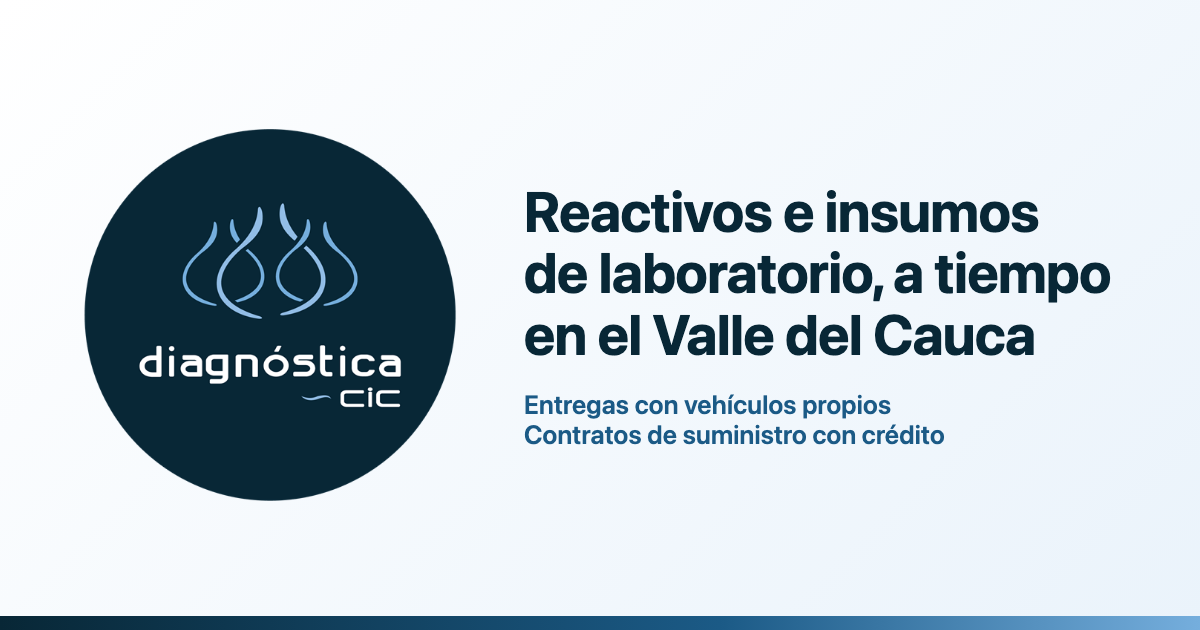
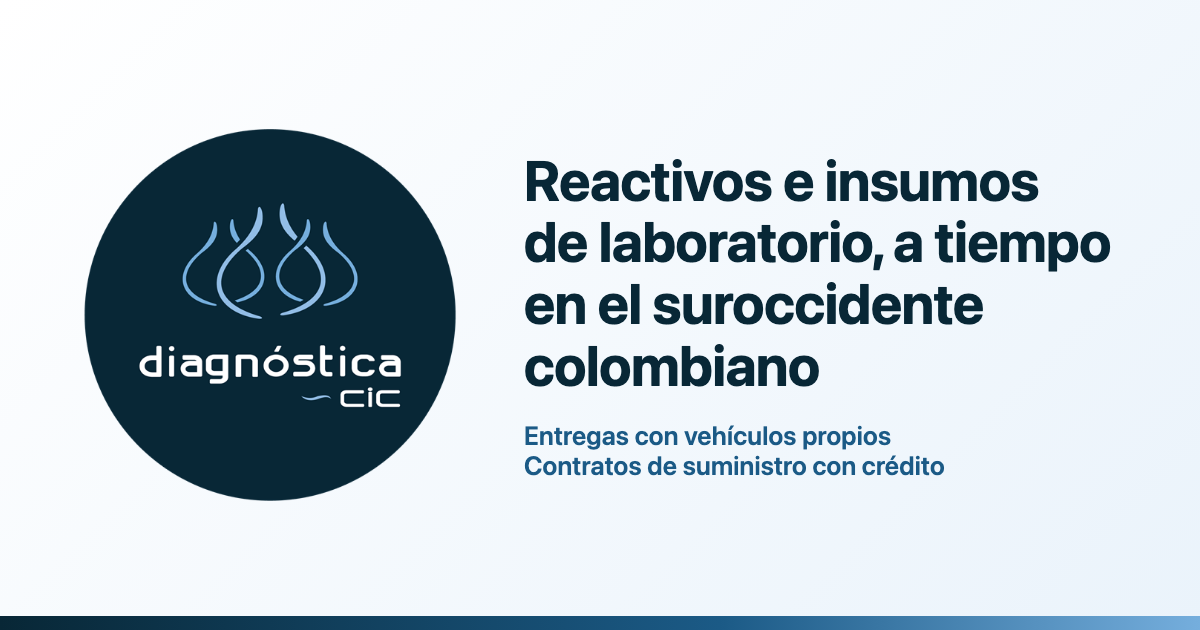
Apply content questionnaire answers
Copy now matches what the company confirmed:
- Hero: independent distributor supplying CIC lab and Sane; suroccidente
  colombiano; proof row since 2021 / 40+ clients / 17 route municipalities
- Remove brand strip, stock reservado, 60-day credit (now 30 a 45 días),
  contracts for labs/drugstores, vidriería card, Buenaventura
- Contracts only for hospitals/IPS: stable price, agreed delivery dates,
  credit line, no minimum consumption; quote in 2 to 48 h
- Coverage: whole Valle; fixed routes in 17 CIC-site municipalities;
  freight outside routes, free over $600.000
- Catalog opens the WhatsApp Business catalog (tracked as catalog_view)
- Saturday hours, more client types, contract document hint, FAQ updates
  (no minimum order, tenders, electronic invoicing)
- Tracking labels use visible text only

Changed region(s): [[0.4317, 0.2413, 0.925, 0.754]]

diff --git a/src/data/site.ts b/src/data/site.ts
@@ -20,57 +20,51 @@ export const company = {
   get address() {
     return `${this.street}, ${this.city}, ${this.region}`;
   },
-  hours: ['Lunes a viernes: 7:00 a.m. – 12:00 m. y 2:00 p.m. – 5:00 p.m.'],
+  hours: ['Lunes a viernes: 7:00 a.m. – 12:00 m. y 2:00 p.m. – 5:00 p.m.', 'Sábados: 7:30 a.m. – 11:00 a.m.'],
   // Shown in the proof row, the contact section and the form's success message.
   responseTime: '24 horas',
 };
 
 /**
- * Delivery route: which weekday our own vehicles reach each municipality.
+ * Fixed delivery routes: the municipalities with a CIC laboratorios site, by weekday.
+ * A day without fixed towns shows its `note` instead.
  * The list of municipalities and their count are derived from this everywhere on the page.
  */
-export const routeDays = [
-  { day: 'Lunes', towns: ['Cali', 'Jamundí', 'Yumbo'] },
+export const routeDays: { day: string; towns?: string[]; note?: string }[] = [
+  { day: 'Lunes', towns: ['Cali', 'Yumbo', 'Vijes', 'Dagua', 'La Cumbre'] },
   { day: 'Martes', towns: ['Palmira', 'Candelaria', 'Pradera', 'Florida'] },
   { day: 'Miércoles', towns: ['Buga', 'Guacarí', 'El Cerrito', 'Ginebra'] },
   { day: 'Jueves', towns: ['Tuluá', 'Zarzal', 'Roldanillo', 'Cartago'] },
-  { day: 'Viernes', towns: ['Buenaventura'] },
+  { day: 'Viernes', note: 'Envíos a municipios cercanos' },
 ];
 
-export const municipalities = routeDays.flatMap((d) => d.towns);
+export const municipalities = routeDays.flatMap((d) => d.towns ?? []);
+
+/** Orders above this value ship without freight charge (COP). */
+export const freeFreightFrom = '$600.000';
 
 /** Prefilled WhatsApp messages, one per button intent. */
 export const whatsappMessages = {
   general: 'Hola, CIC Diagnóstica. Quisiera más información sobre sus productos.',
   quote: 'Hola, CIC Diagnóstica. Quisiera solicitar una cotización de insumos de laboratorio.',
   urgent: 'Hola, CIC Diagnóstica. Tengo un pedido urgente: nos estamos quedando sin insumos.',
-  catalog: 'Hola, CIC Diagnóstica. ¿Me pueden enviar el catálogo con precios, por favor?',
+  catalog: 'Hola, CIC Diagnóstica. Quisiera conocer los precios de los productos de su catálogo.',
   contract: 'Hola, CIC Diagnóstica. Me interesa un contrato de suministro para mi institución.',
   outsideRoute: 'Hola, CIC Diagnóstica. Quisiera saber si pueden hacer entregas en mi municipio.',
   hospital: 'Hola, CIC Diagnóstica. Escribo de un hospital / IPS y me interesa un convenio de suministro.',
   lab: 'Hola, CIC Diagnóstica. Escribo de un laboratorio clínico y quisiera una cotización de reactivos e insumos.',
   drugstore: 'Hola, CIC Diagnóstica. Escribo de una droguería y quisiera conocer sus productos y condiciones.',
-  independent: 'Hola, CIC Diagnóstica. Quisiera cotizar algunos insumos para mi consultorio.',
+  independent: 'Hola, CIC Diagnóstica. Quisiera cotizar algunos insumos para mi consultorio o establecimiento.',
 } as const;
 
 export type WhatsAppIntent = keyof typeof whatsappMessages;
 
-/** Proof row under the hero. Replace the bracketed values with confirmed figures. */
+/** Proof row under the hero. Only confirmed figures. */
 export const stats = [
-  { value: '[00]', label: 'años en el mercado' },
-  { value: '[000]', label: 'clientes activos' },
-  { value: String(municipalities.length), label: 'municipios con entrega propia' },
+  { value: 'Desde 2021', label: 'en el mercado' },
+  { value: '40+', label: 'clientes activos' },
+  { value: String(municipalities.length), label: 'municipios con ruta fija' },
   { value: `< ${company.responseTime}`, label: 'tiempo de respuesta' },
-];
-
-/** Brands we distribute. Set `logo` to a file in /public (e.g. '/brands/marca.svg') to show the image. */
-export const brands: { name: string; logo?: string }[] = [
-  { name: '[Marca 1]' },
-  { name: '[Marca 2]' },
-  { name: '[Marca 3]' },
-  { name: '[Marca 4]' },
-  { name: '[Marca 5]' },
-  { name: '[Marca 6]' },
 ];
 
 export const clientPlans: {
@@ -84,9 +78,9 @@ export const clientPlans: {
     icon: 'hospital',
     title: 'Hospitales e IPS',
     benefits: [
-      'Convenios y contratos de suministro',
+      'Contratos de suministro u órdenes de compra',
       'Facturación centralizada',
-      'Precio fijo y pago a 30 o 60 días',
+      'Cupo de crédito con pago a 30 a 45 días',
       'Entregas programadas con vehículos propios',
     ],
     cta: 'Solicitar convenio',
@@ -97,9 +91,9 @@ export const clientPlans: {
     title: 'Laboratorios clínicos',
     benefits: [
       'Reactivos, toma de muestras y consumibles en un solo proveedor',
-      'Stock reservado para su consumo mensual',
-      'Entregas semanales o quincenales',
-      'Respaldo de un grupo con laboratorio clínico propio',
+      'Despachos todos los días en nuestras rutas',
+      'Sin pedido mínimo',
+      'Abastecemos al laboratorio clínico CIC: conocemos su operación',
     ],
     cta: 'Cotizar para mi laboratorio',
     whatsapp: 'lab',
@@ -109,7 +103,7 @@ export const clientPlans: {
     title: 'Droguerías',
     benefits: [
       'Pruebas rápidas y elementos de bioseguridad',
-      'Contrato de suministro con precio fijo',
+      'Sin pedido mínimo',
       'Entrega en su municipio según el calendario de ruta',
     ],
     cta: 'Cotizar para mi droguería',
@@ -117,11 +111,12 @@ export const clientPlans: {
   },
   {
     icon: 'user',
-    title: 'Consultorios e independientes',
+    title: 'Consultorios y otros establecimientos',
     benefits: [
-      'Pedidos sin necesidad de contrato',
+      'Veterinarias, fisioterapia, odontología, clínicas ortopédicas y más',
+      'Sin pedido mínimo ni contrato',
+      'La misma línea que usan hospitales y laboratorios',
       'Cotización directa por WhatsApp',
-      'Los mismos productos que usan hospitales y laboratorios',
     ],
     cta: 'Cotizar por WhatsApp',
     whatsapp: 'independent',
@@ -138,7 +133,7 @@ export const productCategories = [
   {
     icon: 'droplet',
     title: 'Toma de muestras',
-    items: ['Tubos al vacío', 'Agujas y holders', 'Torniquetes', 'Recolectores de orina y coprológico'],
+    items: ['Tubos al vacío', 'Agujas, jeringas y holders', 'Torniquetes', 'Recolectores de orina y coprológico'],
   },
   {
     icon: 'test',
@@ -151,11 +146,6 @@ export const productCategories = [
     items: ['Puntas de micropipeta', 'Láminas y laminillas', 'Algodón y gasas', 'Alcohol y antisépticos'],
   },
   {
-    icon: 'beaker',
-    title: 'Vidriería y plásticos',
-    items: ['Tubos de ensayo', 'Pipetas', 'Gradillas', 'Frascos y cajas de Petri'],
-  },
-  {
     icon: 'shield',
     title: 'Bioseguridad',
     items: ['Guantes de nitrilo y látex', 'Tapabocas y respiradores', 'Batas desechables', 'Guardianes'],
@@ -163,18 +153,33 @@ export const productCategories = [
 ];
 
 export const contractBenefits = [
-  { icon: 'lock', title: 'Precio fijo', text: 'El precio acordado se mantiene durante toda la vigencia del contrato.' },
-  { icon: 'calendar', title: 'Entregas programadas', text: 'Despachos semanales o quincenales según su consumo.' },
-  { icon: 'card', title: 'Pago a 30 o 60 días', text: 'Crédito para instituciones con contrato de suministro.' },
-  { icon: 'box', title: 'Stock reservado', text: 'Apartamos su inventario para que no se quede sin insumos.' },
+  {
+    icon: 'lock',
+    title: 'Precio estable',
+    text: 'Por lo general mantenemos el precio acordado; solo algunos productos importados pueden variar con el dólar.',
+  },
+  {
+    icon: 'calendar',
+    title: 'Entregas programadas',
+    text: 'Acordamos las fechas con usted y despachamos en las rutas de la semana; para volúmenes grandes, despacho dedicado.',
+  },
+  { icon: 'card', title: 'Pago a 30 a 45 días', text: 'Cupo de crédito acordado con gerencia.' },
+  {
+    icon: 'check',
+    title: 'Sin consumo mínimo',
+    text: 'Al completar el cupo del contrato, renovamos con un otrosí o un contrato nuevo.',
+  },
 ];
 
 export const contractSteps = [
-  { title: 'Reciba una propuesta', text: 'Le enviamos precios fijos, frecuencia de entrega y plazo de pago.' },
-  { title: 'Lo visita un asesor', text: 'Nuestro asesor comercial revisa la propuesta con usted en su sede.' },
+  { title: 'Solicite una cotización', text: 'Le respondemos en 2 a 48 horas con precios y condiciones.' },
+  {
+    title: 'Negociamos con usted',
+    text: 'Por lo general de forma digital; si lo prefiere, nuestro asesor comercial lo visita en su sede.',
+  },
 ];
 
-/** Documents purchasing departments can request. */
+/** Documents purchasing departments can request. INVIMA records and data sheets come from each manufacturer. */
 export const supplierDocuments = [
   'RUT',
   'Certificado de Cámara de Comercio',
@@ -192,27 +197,31 @@ export const testimonials: { quote: string; name: string; role?: string; org?: s
 export const faqs = [
   {
     q: '¿Puedo comprar en línea?',
-    a: 'Todavía no tenemos tienda en línea. Escríbanos por WhatsApp o diligencie el formulario y le enviamos el catálogo con precios y una cotización.',
+    a: 'Todavía no tenemos tienda en línea. Puede ver nuestro catálogo en WhatsApp y pedirnos una cotización por ese medio o con el formulario.',
   },
   {
     q: '¿Hay un pedido mínimo?',
-    a: '[Definir pedido mínimo]. También atendemos pedidos pequeños de consultorios e independientes.',
+    a: `No hay pedido mínimo. El flete depende de la distancia y del valor del pedido; en compras superiores a ${freeFreightFrom} no cobramos flete.`,
   },
   {
     q: '¿Ofrecen crédito?',
-    a: 'Sí. Los clientes con contrato de suministro pueden pagar a 30 o 60 días. [Condiciones del crédito para compras sin contrato].',
+    a: 'Los hospitales e IPS con contrato manejan un cupo de crédito con pago a 30 a 45 días. Otros clientes pueden acceder a crédito si cumplen los requisitos de la empresa.',
   },
   {
     q: '¿Cuánto tarda una entrega?',
-    a: 'Entregamos con personal y vehículos propios según el calendario de ruta: cada municipio tiene un día fijo de entrega. [Tiempo de entrega para pedidos urgentes].',
+    a: 'Si el producto está en stock, entregamos en 1 a 3 días hábiles según la ruta de la semana. Para volúmenes grandes coordinamos un despacho dedicado.',
   },
   {
-    q: `¿Entregan fuera de los ${municipalities.length} municipios?`,
-    a: 'Evaluamos cada caso según el volumen y la ubicación. Escríbanos y le confirmamos.',
+    q: '¿Entregan fuera de las rutas?',
+    a: 'Sí, entregamos en todo el Valle del Cauca. Fuera de las rutas principales se cobra flete.',
   },
   {
-    q: '¿Qué documentación entregan para licitaciones?',
-    a: 'Le enviamos RUT, certificado de Cámara de Comercio, registros sanitarios INVIMA y fichas técnicas de los productos.',
+    q: '¿Participan en licitaciones?',
+    a: 'Sí, participamos en licitaciones públicas. Enviamos RUT, certificado de Cámara de Comercio, registros sanitarios INVIMA y fichas técnicas en 48 horas hábiles.',
+  },
+  {
+    q: '¿Emiten factura electrónica?',
+    a: 'Sí, todas nuestras ventas se facturan electrónicamente.',
   },
 ];
 
@@ -222,13 +231,17 @@ export const clientTypeOptions = [
   'Laboratorio clínico',
   'Droguería',
   'Consultorio / independiente',
+  'Veterinaria',
+  'Fisioterapia',
+  'Odontología',
+  'Clínica ortopédica',
   'Otro',
 ];
 
 export const interestOptions = [
   { key: 'cotizacion', label: 'Cotización' },
   { key: 'contrato', label: 'Contrato de suministro' },
-  { key: 'catalogo', label: 'Catálogo con precios' },
+  { key: 'catalogo', label: 'Precios del catálogo' },
   { key: 'documentos', label: 'Documentos para proveedor' },
   { key: 'otra', label: 'Otra' },
 ] as const;

diff --git a/src/lib/whatsapp.ts b/src/lib/whatsapp.ts
@@ -4,3 +4,8 @@ import { company, whatsappMessages, type WhatsAppIntent } from '../data/site';
 export function waLink(intent: WhatsAppIntent = 'general'): string {
   return `https://wa.me/${company.whatsapp}?text=${encodeURIComponent(whatsappMessages[intent])}`;
 }
+
+/** Opens the WhatsApp Business product catalog. */
+export function waCatalogLink(): string {
+  return `https://wa.me/c/${company.whatsapp}`;
+}

diff --git a/README.md b/README.md
@@ -13,7 +13,7 @@ One-page site for CIC Diagnostica, a medical and laboratory supplies distributor
 ├── .env.example            # RESEND_API_KEY, CONTACT_TO, CONTACT_FROM
 ├── public/                 # favicon, apple-touch-icon, og-image.png (1200×630), brand/ (logo files)
 └── src/
-    ├── data/site.ts        # ← ALL editable content: contact, WhatsApp, stats, brands, plans, products, route, FAQ
+    ├── data/site.ts        # ← ALL editable content: contact, WhatsApp, stats, plans, products, route, FAQ
     ├── lib/
     │   ├── whatsapp.ts     # waLink(intent) → https://wa.me/<number>?text=<message>
     │   └── contact.ts      # form validation shared by browser and API
@@ -48,16 +48,16 @@ Everything is in `src/data/site.ts`:
 | Prefilled WhatsApp messages (quote, urgent, catalog, contract, one per client type…) | `whatsappMessages` |
 | Email, address, hours, NIT, legal name, response time | `company` |
 | Proof row under the hero (years, clients, municipalities, response time) | `stats` |
-| Brand logo strip | `brands` (set `logo: '/brands/x.svg'` and put the file in `public/brands/`) |
 | Plan cards per client type, with their WhatsApp button | `clientPlans` |
 | Product categories and example items | `productCategories` (icons: `flask droplet test box beaker shield`) |
-| Delivery route: municipalities grouped by weekday | `routeDays` |
+| Delivery route: municipalities grouped by weekday (a day without fixed towns takes a `note`) | `routeDays` |
+| Free-freight threshold (coverage note and FAQ) | `freeFreightFrom` |
 | Supplier documents list | `supplierDocuments` |
 | Testimonials (section hidden while empty) | `testimonials` |
 | FAQ | `faqs` |
 | Client-type and "me interesa" options of the form | `clientTypeOptions`, `interestOptions` |
 
-**Numbers stay consistent by construction.** The municipality count shown in the proof row, coverage heading, FAQ and meta description is `municipalities.length`, which is derived from `routeDays`. The response time comes from `company.responseTime` in the proof row, contact section and success message. Change each value once in the data file and it updates everywhere. Only publish numbers and claims you can back up.
+**Numbers stay consistent by construction.** The municipality count shown in the proof row, coverage section and meta description is `municipalities.length`, which is derived from `routeDays`. The response time comes from `company.responseTime` in the proof row, contact section and success message. Change each value once in the data file and it updates everywhere. Only publish numbers and claims you can back up.
 
 Icons live in `src/components/Icon.astro`. To add one, add an SVG path to the `paths` map.
 
@@ -133,13 +133,7 @@ Every push to `main` deploys to production. Other branches get preview URLs.
 All in `src/data/site.ts` unless noted. Values in `[brackets]` show up on the page as-is until you replace them.
 
 - [ ] `company.nit`: `[NIT 000.000.000-0]`
-- [ ] `company.legalName`: `CIC Diagnostica S.A.S. [RAZÓN SOCIAL]`
-- [ ] `stats`: years in business `[00]` and active clients `[000]` (confirmed figures only)
-- [ ] `company.responseTime`: `24 horas` (check that you can keep this promise)
-- [ ] `brands`: `[Marca 1]`…`[Marca 6]`, the real brands and their logo files
-- [ ] `routeDays`: the real 16 municipalities and the weekday for each (current list and days are examples)
-- [ ] `productCategories`: real categories and example items
-- [ ] `faqs`: minimum order `[Definir pedido mínimo]`, `[Condiciones del crédito para compras sin contrato]`, `[Tiempo de entrega para pedidos urgentes]`
+- [ ] `company.legalName`: `CIC Diagnóstica S.A.S. [RAZÓN SOCIAL]`
 - [ ] `testimonials`: add 2–3 approved quotes to show the section
 - [ ] Consent text in `src/components/ContactForm.astro` mentions a "política de tratamiento de datos". Publish that policy (required by Ley 1581) and link it there.
 - [ ] `public/og-image.png`: social preview image; replace with a branded one if you have a logo. It's a static image, so keep any numbers out of it.
